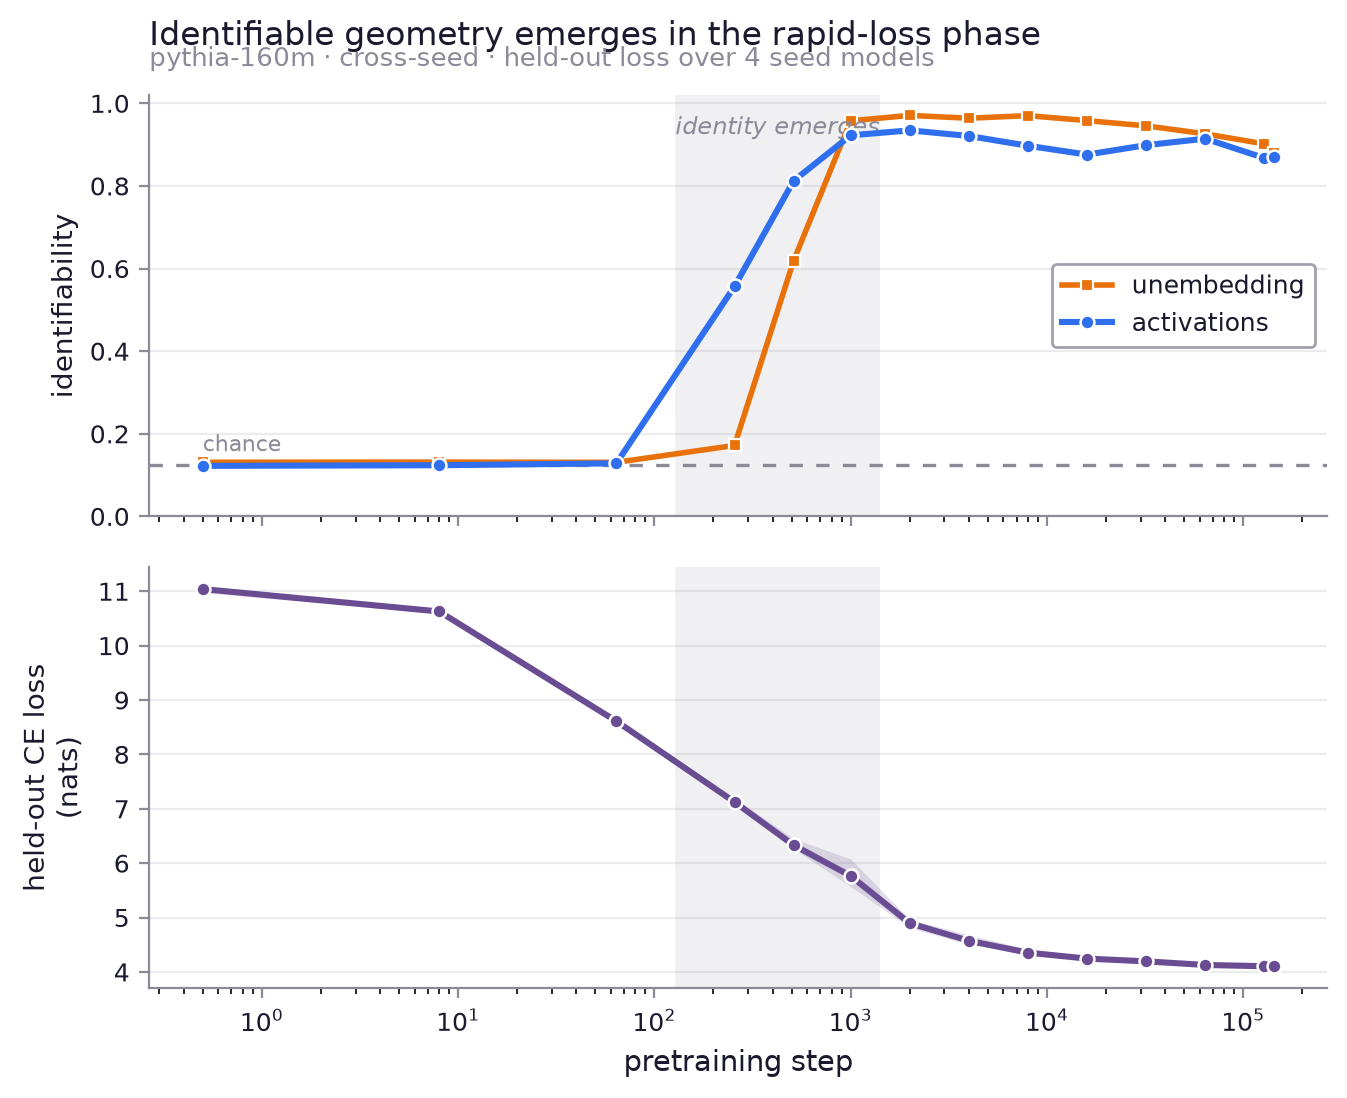
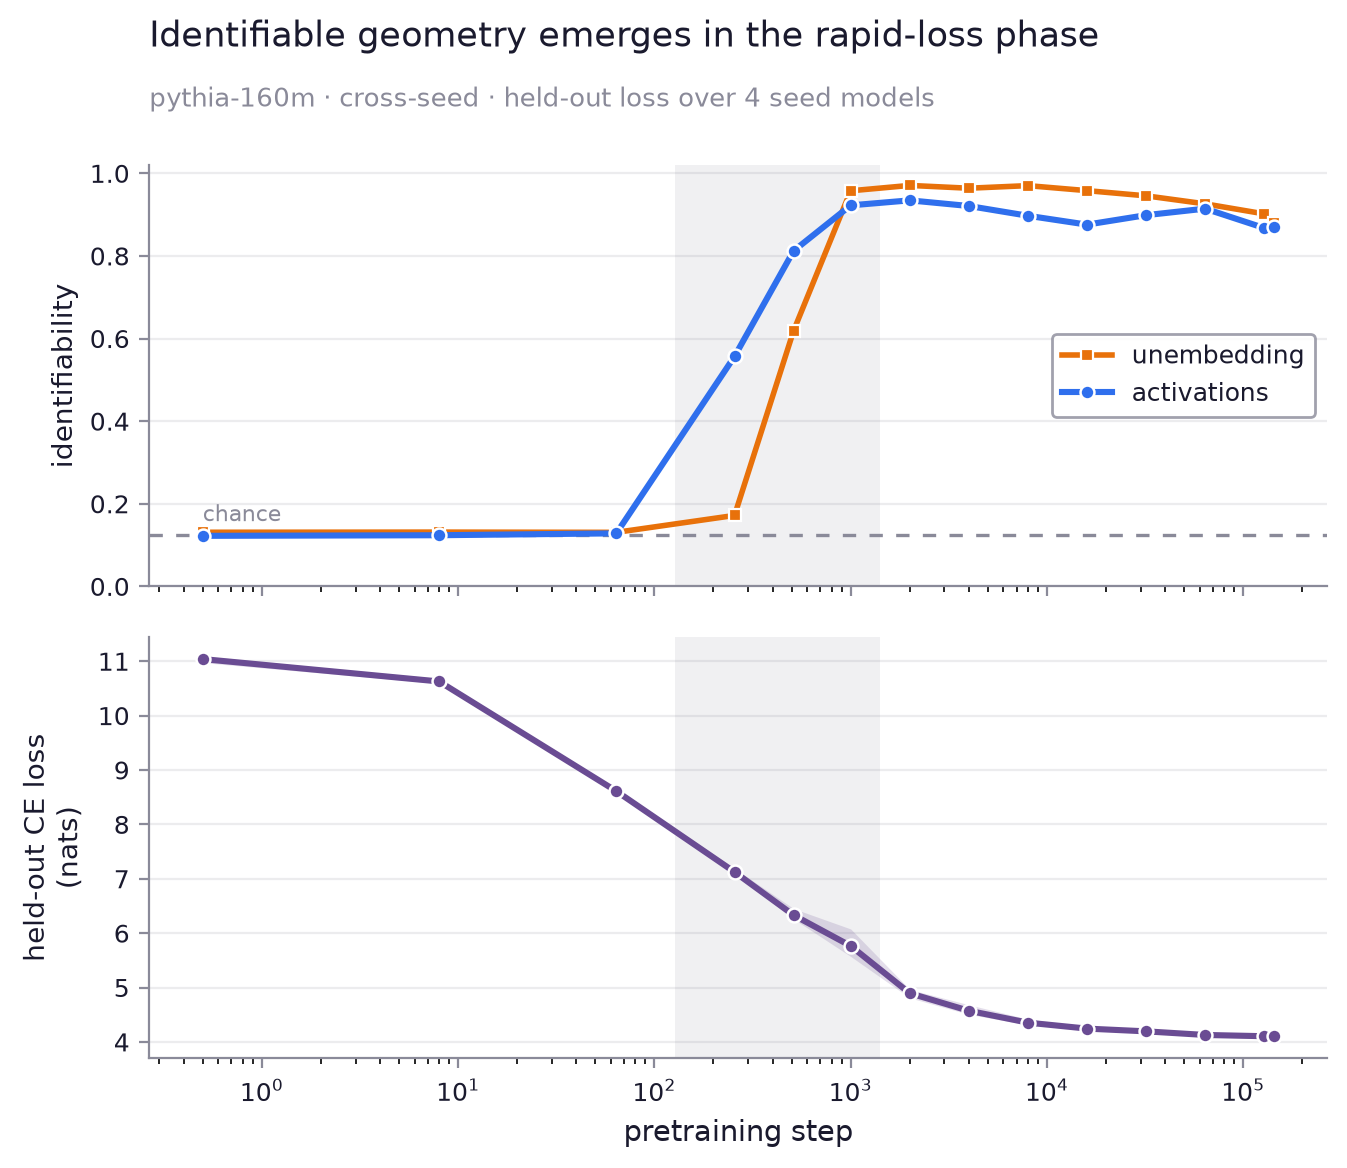
emergence: tidy loss plot header, drop occluded label

diff --git a/emergence/plot_loss.py b/emergence/plot_loss.py
@@ -68,8 +68,6 @@ def main():
               markeredgewidth=0.9, zorder=4, label="activations")
     ax_i.set_ylim(0, 1.02)
     ax_i.set_ylabel("identifiability", fontsize=10, color=INK)
-    ax_i.text(np.sqrt(w0 * w1), 0.95, "identity emerges", ha="center", va="top",
-              transform=ax_i.get_xaxis_transform(), fontsize=8.5, color=MUTED, style="italic")
     ax_i.text(xs[0], chance + 0.02, "chance", ha="left", va="bottom", fontsize=8, color=MUTED)
     ax_i.legend(loc="center right", frameon=True, fontsize=9,
                 labelcolor=INK).get_frame().set_edgecolor(MUTED)
@@ -92,10 +90,10 @@ def main():
         for t in ax.get_xticklabels() + ax.get_yticklabels():
             t.set_color(INK)
 
-    ax_i.set_title("Identifiable geometry emerges in the rapid-loss phase",
-                   fontsize=12, color=INK, pad=18, loc="left")
-    fig.text(0.125, 0.905, f"{ic['meta']['model']} · cross-seed · held-out loss over "
-             f"{lc['meta']['n_seeds']} seed models", fontsize=9.5, color=MUTED, ha="left")
+    fig.text(0.125, 0.975, "Identifiable geometry emerges in the rapid-loss phase",
+             fontsize=12.5, color=INK, ha="left", va="bottom")
+    fig.text(0.125, 0.925, f"{ic['meta']['model']} · cross-seed · held-out loss over "
+             f"{lc['meta']['n_seeds']} seed models", fontsize=9.5, color=MUTED, ha="left", va="bottom")
 
     out = os.path.join(OUT_DIR, "loss_vs_identity.png")
     fig.savefig(out, facecolor="white", bbox_inches="tight")
